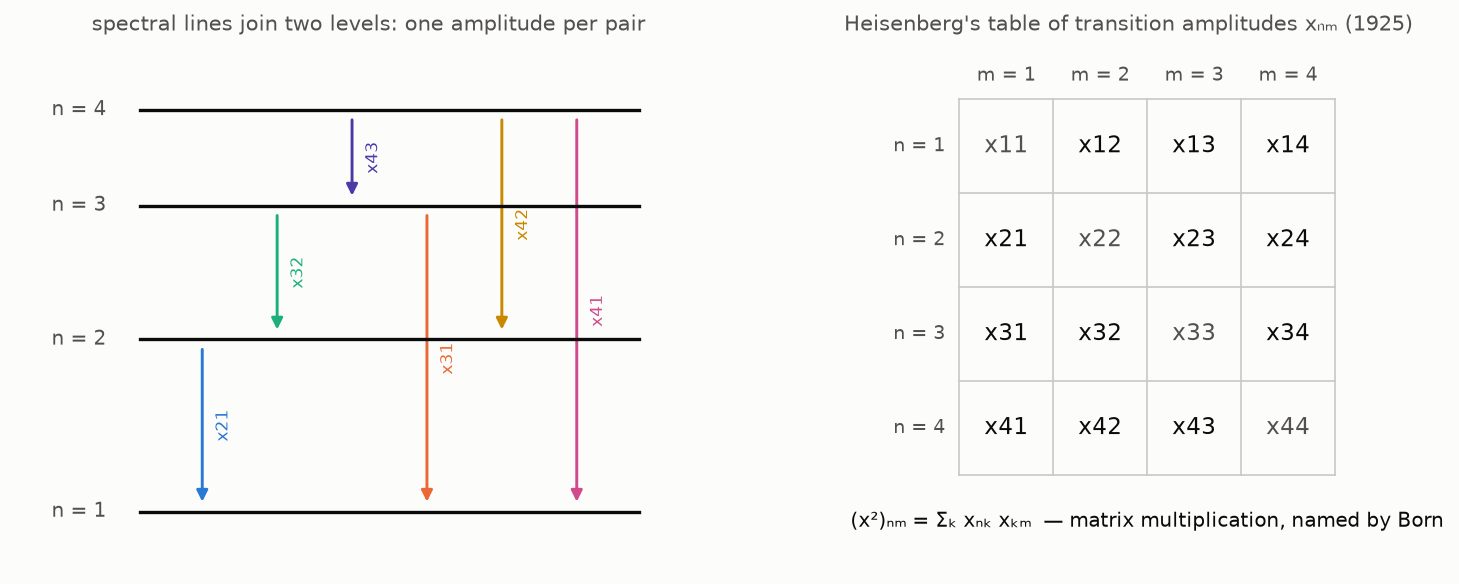
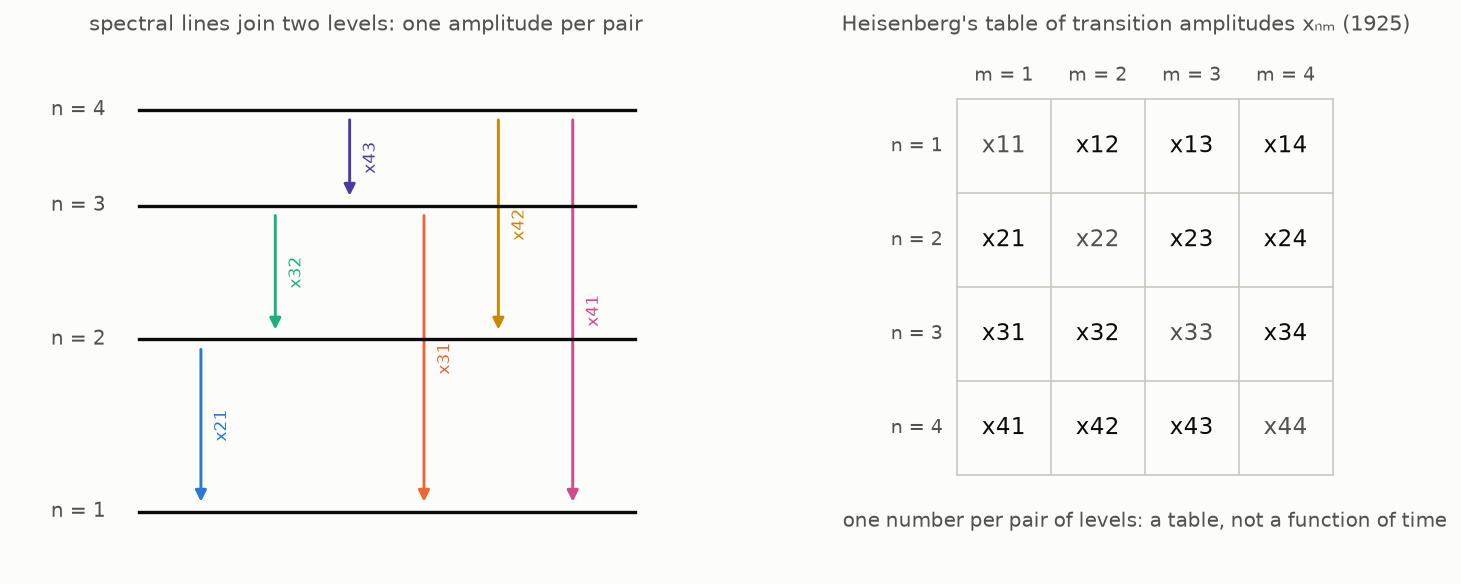
QM-3 draft: reinterpretation paragraph → figure → one-to-one correspondence table → multiplication; figure caption without the product rule

diff --git a/content/posts/observables-and-the-born-rule/index.md b/content/posts/observables-and-the-born-rule/index.md
@@ -300,7 +300,12 @@ step — the first of what Aitchison and his coauthors call his
 "magical jumps" — was to let the whole set of quantities
 $X(n, n - \alpha)\, e^{i\omega(n, n - \alpha) t}$ *stand for* the
 position $x(t)$: not a function of time any more, but a table of
-numbers indexed by pairs of states. Side by side:
+numbers indexed by pairs of states.
+
+![Heisenberg's table: every spectral line joins two levels, so every observable quantity carries two indices — a table of transition amplitudes](heisenberg_table.png)
+
+In this reinterpretation every classical quantity has a measured
+counterpart, and the correspondence is one to one:
 
 | | classical orbit | Heisenberg's reinterpretation |
 |---|---|---|
@@ -339,8 +344,6 @@ commutation relation $\hat x \hat p - \hat p \hat x = i\hbar$, Dirac in
 Cambridge built the same structure as an algebra of non-commuting
 "q-numbers", and the "three-man paper" of Born, Heisenberg and Jordan
 completed matrix mechanics before the year was out.
-
-![Heisenberg's table: every spectral line joins two levels, so every observable quantity carries two indices — a table of transition amplitudes, which Born recognized as a matrix](heisenberg_table.png)
 
 What survives from that summer, for this post, is the shape of the
 object: **a measurable quantity is a table of numbers indexed by
